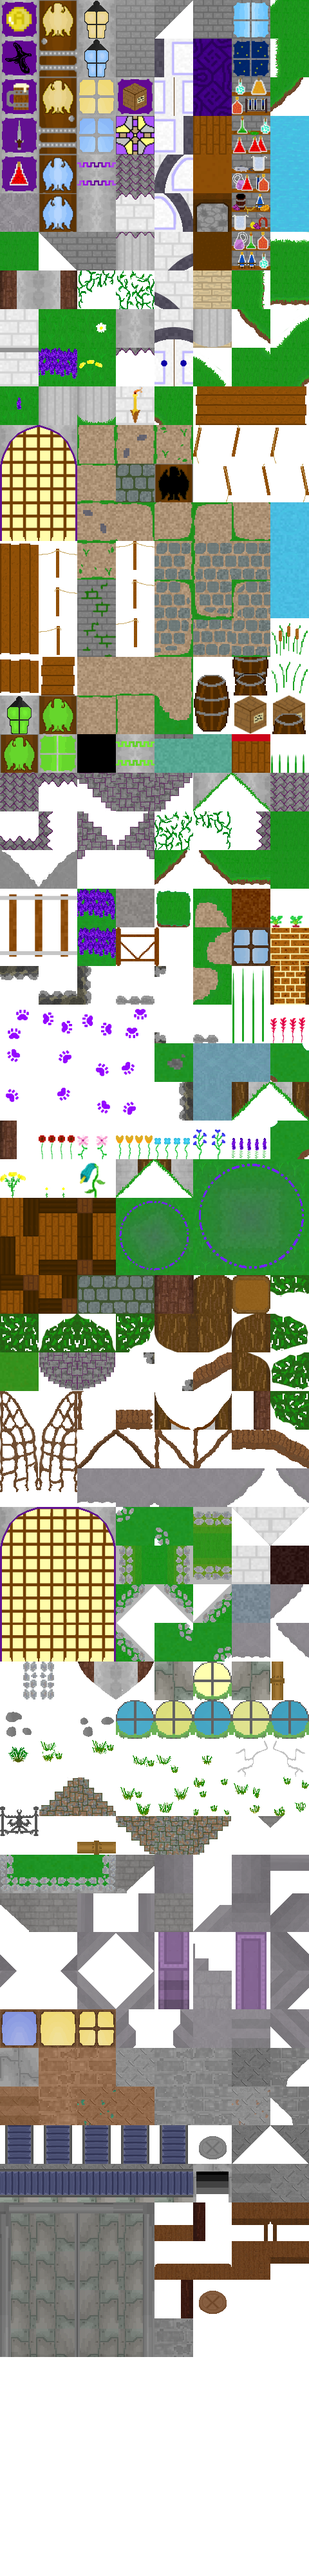
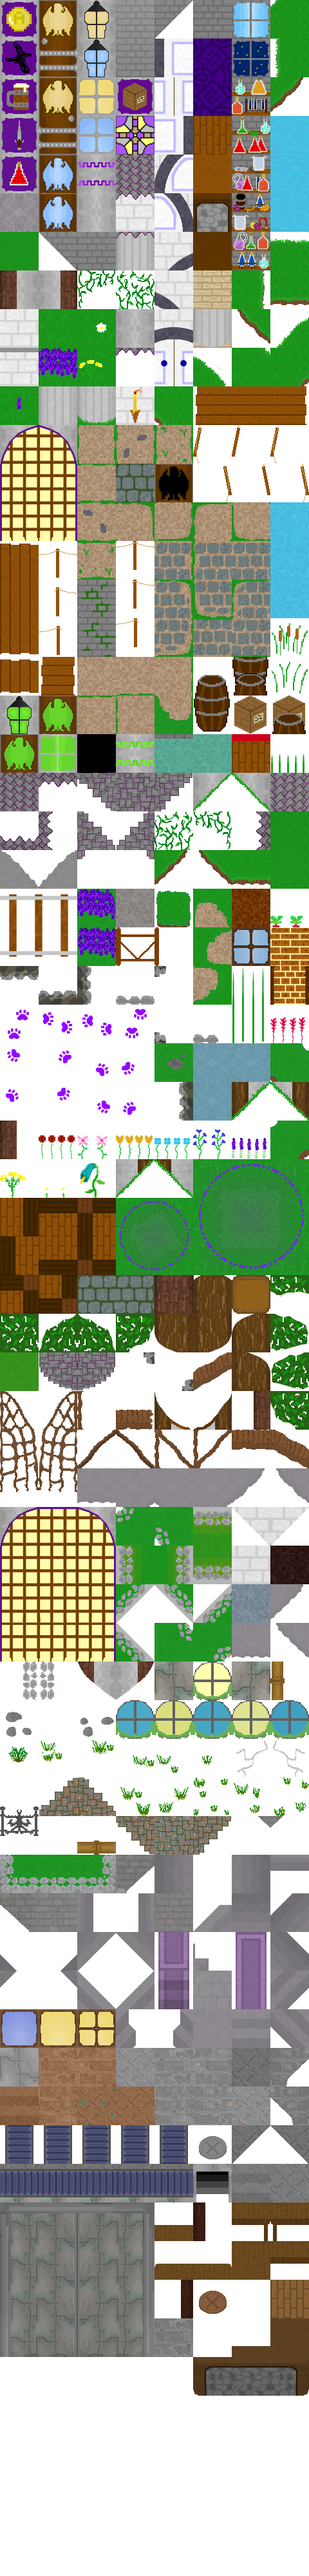
Tinkerer entrance added!

Changed region(s): [[0.625, 0.875, 1.0, 0.9375]]

diff --git a/gamedata/areadata.js b/gamedata/areadata.js
@@ -4107,6 +4107,19 @@ var Areas = {
 			},
 			teleportFailText: "The bank is closed.",
 		},
+
+		{
+			// teleport to tinkerersEntrance
+			x: 5190,
+			y: 2820,
+			width: 120,
+			height: 2,
+			teleportTo: "tinkerersEntrance",
+			destinationX: 360,
+			destinationY: 694,
+		},
+
+
 		{
 			// teleport to tavern
 			x: 2610.2,
@@ -14145,8 +14158,110 @@ chloroville: {
 
 	],
 		areaTeleports: [
+			{
+				x: 1442,
+				y: 580,
+				width: 210,
+				height: 2,
+				teleportTo: "tinkerersEntrance",
+				destinationX: 845,
+				destinationY: 290,
+			},
+
 		],
 	},
+
+
+	tinkerersEntrance: {
+		id: 30,
+
+		data: {
+			name: "???",
+			displayOnEnter: false,
+		},
+
+		indoors: true,
+
+		tagGameAllowed: true,
+
+		song_day: "assets/music/Eaglecrest.mp3",
+		song_night: "assets/music/Eaglecrest.mp3",
+
+		checkpoint: false,
+
+		lootArea: "eaglecrest",
+		lootTier: 1,
+
+		mapData: {
+			cols: 20,
+			rows: 13,
+			tsize: 60,
+			tilesPerRow: 8,
+			animateTiles: [
+		],
+			layers: [
+				[6,6,6,6,6,6,6,6,6,6,6,6,6,6,6,6,6,6,6,6,
+6,6,6,6,6,6,6,6,6,6,6,6,6,6,6,6,6,6,6,6,
+6,6,6,6,6,6,6,6,6,6,6,6,6,6,6,6,6,6,6,6,
+6,6,6,6,6,6,6,6,6,6,6,6,6,6,6,6,6,6,6,6,
+480,480,480,480,480,480,480,480,480,480,480,480,480,480,480,480,480,480,480,480,
+480,480,480,480,480,480,480,480,480,480,480,480,480,480,480,480,480,480,480,480,
+480,480,480,480,480,480,480,480,480,480,480,480,480,480,480,480,480,480,480,480,
+480,480,480,480,480,480,480,480,480,480,480,480,480,480,480,480,480,480,480,480,
+480,480,480,480,480,480,480,480,480,480,480,480,480,480,480,480,480,480,480,480,
+480,480,480,480,480,480,480,480,480,480,480,480,480,480,480,480,480,480,480,480,
+480,480,480,480,480,480,480,480,480,480,480,480,480,480,480,480,480,480,480,480,
+480,480,480,480,480,480,480,480,480,480,480,480,480,480,480,480,480,480,480,480,
+480,480,480,480,480,480,480,480,480,480,480,480,480,480,480,480,480,480,480,480],
+
+	[0,0,352,0,0,0,0,0,0,0,0,0,457,458,459,460,0,0,0,0,
+379,379,352,0,0,0,0,0,0,0,0,0,465,466,467,468,0,0,379,379,
+0,0,0,0,0,0,0,0,0,0,0,0,473,474,475,476,0,0,352,0,
+0,0,0,487,0,0,0,0,487,0,0,0,481,482,483,484,0,0,352,0,
+0,0,0,488,0,0,0,0,488,0,0,0,0,0,0,0,0,0,0,0,
+0,0,0,488,487,487,487,487,488,0,0,0,0,0,0,0,0,0,0,0,
+0,0,0,494,495,495,495,495,496,0,0,0,0,0,0,0,0,0,0,0,
+0,0,0,0,0,0,0,0,0,0,0,0,0,0,469,461,461,470,0,0,
+0,0,0,0,0,0,0,0,0,0,0,0,0,0,471,471,471,471,0,0,
+0,0,0,0,0,0,0,0,0,0,0,0,0,0,464,472,472,463,0,0,
+0,0,0,0,0,0,0,0,0,0,0,0,0,0,0,0,0,0,0,0,
+0,0,0,0,0,0,0,0,0,0,0,0,0,0,0,0,0,0,0,0,
+0,0,0,0,0,0,0,0,0,0,0,0,0,0,0,0,0,0,0,0]
+		],
+
+		},
+
+		images: {
+			tiles: {normal: "assets/tilemap/eaglecrest.png"},
+
+	},
+	things: [
+	],
+		areaTeleports: [
+
+			{
+				x: 841,
+				y: 183,
+				width: 210,
+				height: 2,
+				teleportTo: "tinkerersWorkshop",
+				destinationX: 1442,
+				destinationY: 683,
+			},
+
+			{
+				x: 355,
+				y: 780,
+				width: 210,
+				height: 2,
+				teleportTo: "eaglecrest",
+				destinationX: 5190,
+				destinationY: 2888,
+			},
+
+		],
+	},
+
 
 
 
